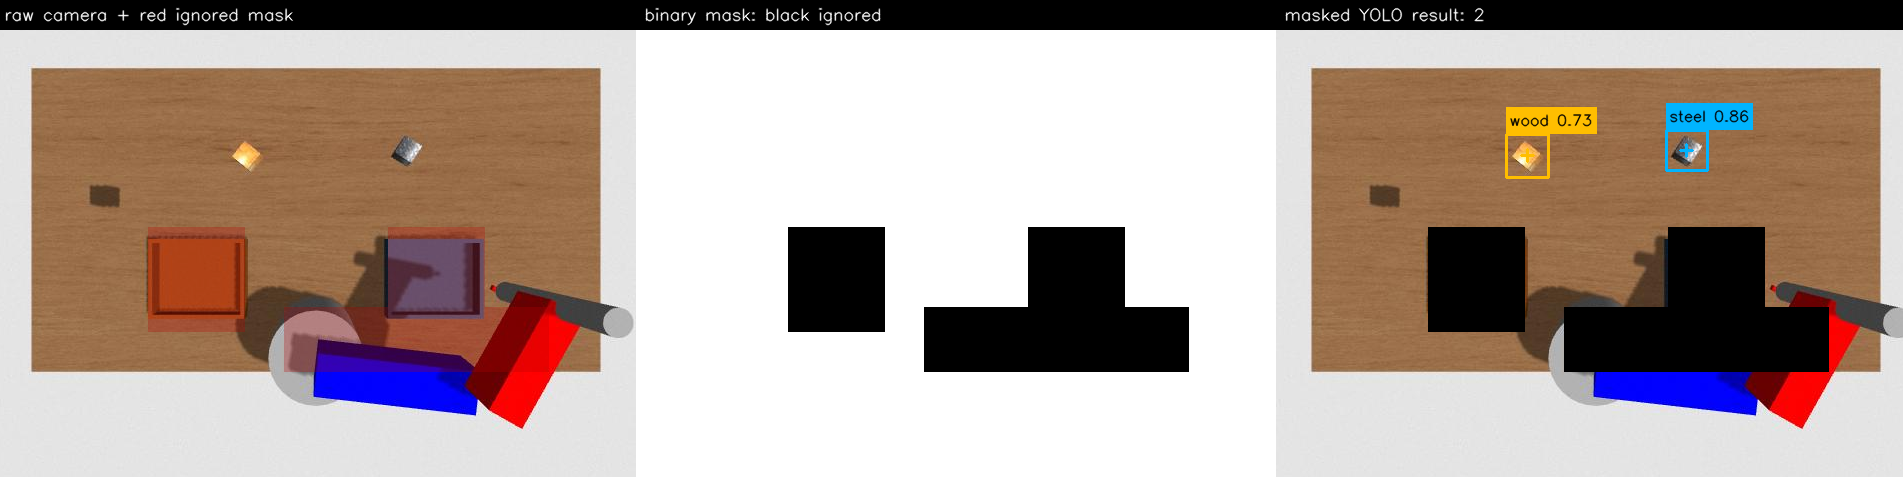
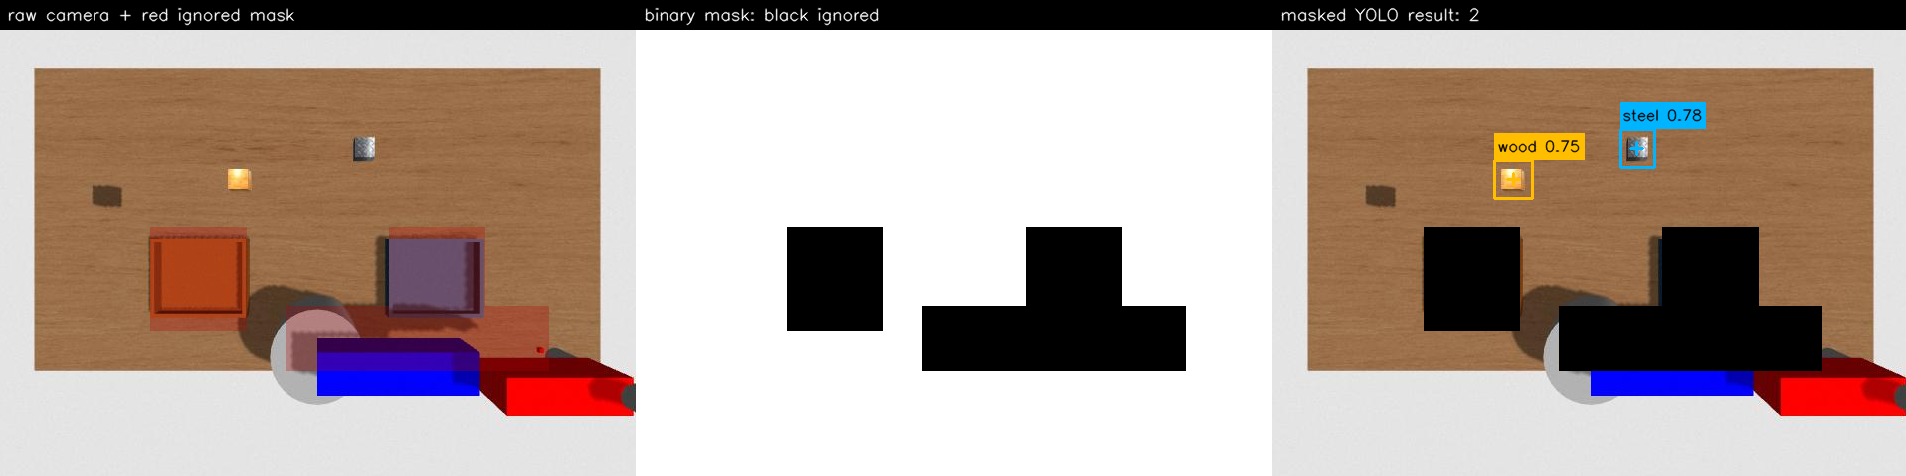
detector_debug debugging

diff --git a/README.md b/README.md
@@ -111,7 +111,7 @@ sudo apt update
 sudo apt install -y \
   git curl lsb-release gnupg unzip \
   python3-pip python3-venv python3-colcon-common-extensions python3-rosdep \
-  python3-numpy python3-opencv \
+  python3-numpy python3-opencv python3-pyqt5 python3-pyqt5.qtsvg \
   ros-jazzy-ament-cmake \
   ros-jazzy-ament-index-python \
   ros-jazzy-control-msgs \
@@ -537,6 +537,23 @@ To see this graphically, open the debug image topic while `start_sorting.launch.
 
 ```bash
 ros2 run rqt_image_view rqt_image_view /sorting/yolo_debug_image
+```
+
+Run `rqt_image_view` from a terminal without the YOLO virtual environment activated if Qt cannot be found:
+
+```bash
+deactivate  # only if a virtual environment such as (tf) or .venv is active
+source /opt/ros/jazzy/setup.bash
+cd ~/projekt_ws/SCARA_projekt
+source install/setup.bash
+ros2 run rqt_image_view rqt_image_view /sorting/yolo_debug_image
+```
+
+If the GUI still reports `Could not find Qt binding`, install the Qt binding packages:
+
+```bash
+sudo apt update
+sudo apt install -y python3-pyqt5 python3-pyqt5.qtsvg ros-jazzy-rqt-image-view
 ```
 
 The debug image has three panels: